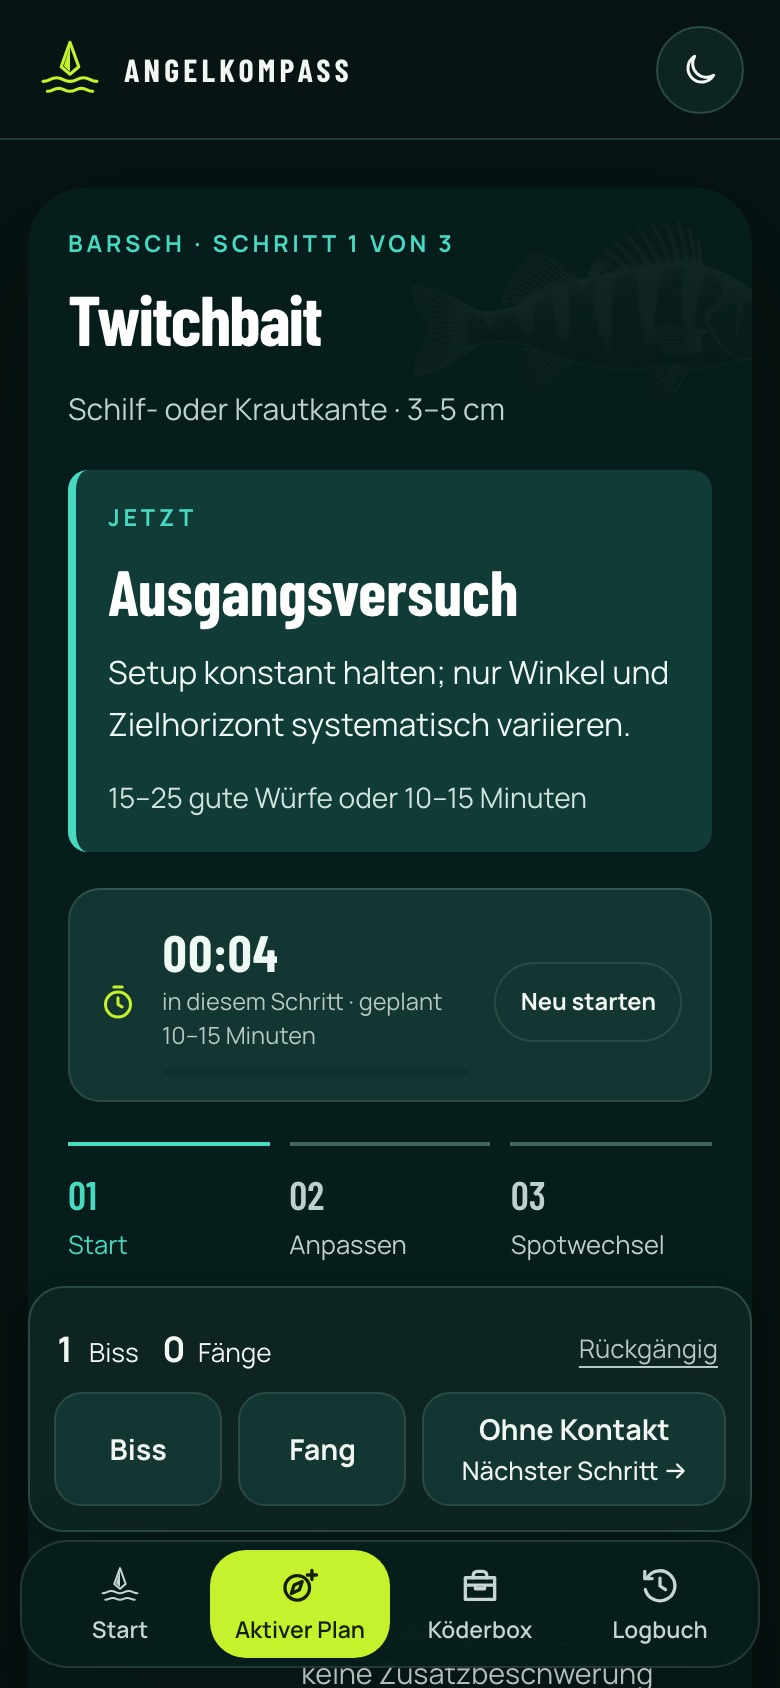
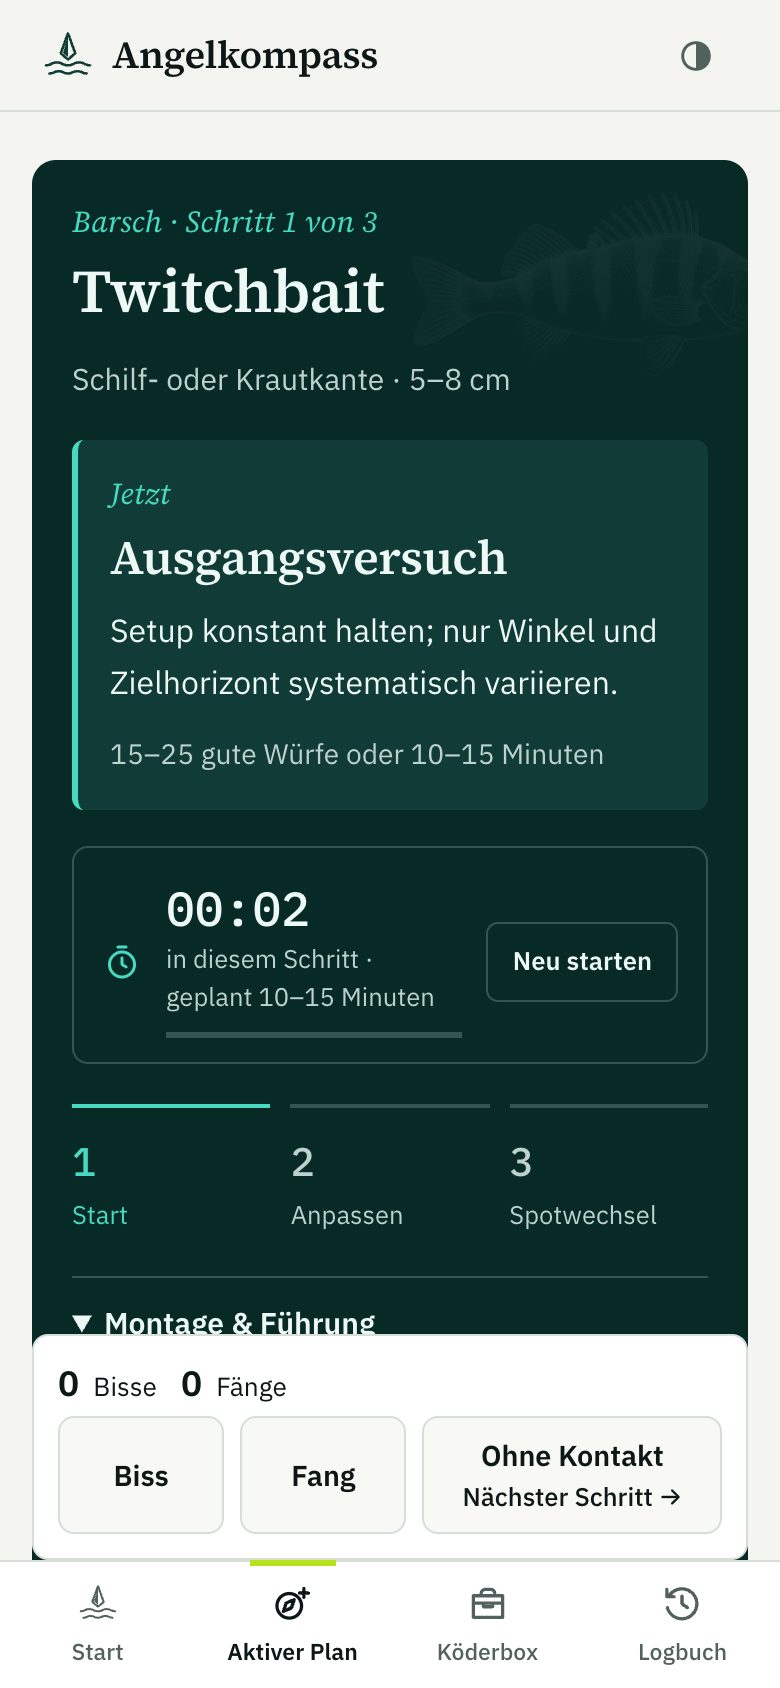
chore: new install screenshots and unpadded step numbers

diff --git a/src/features/sessions/SessionPage.tsx b/src/features/sessions/SessionPage.tsx
@@ -174,7 +174,7 @@ function SessionDetails({ session }: { session: FishingSession }) {
               aria-current={active && index === currentIndex ? 'step' : undefined}
               key={step.phase}
             >
-              <span className="step">0{index + 1}</span>
+              <span className="step">{index + 1}</span>
               <div>
                 <h3>{step.title}</h3>
                 <p>{step.change}</p>

diff --git a/src/features/recommendations/CompactRecommendation.tsx b/src/features/recommendations/CompactRecommendation.tsx
@@ -90,7 +90,7 @@ export function CompactRecommendation({
             className={!completed && step.phase === progress ? 'current' : ''}
             aria-current={!completed && step.phase === progress ? 'step' : undefined}
           >
-            <span>0{index + 1}</span>
+            <span>{index + 1}</span>
             {phaseLabels[step.phase]}
           </li>
         ))}

diff --git a/docs/design/redesign-2026-10-03.md b/docs/design/redesign-2026-10-03.md
@@ -34,7 +34,8 @@ Alle übrigen Farbwerte entsprechen dem bisherigen Stand.
 
 - Startseite: Hero als randloses Foto mit Überschrift, darunter Einleitung, aktive Session mit Hauptaktion, Fischliste, Köderbox und Logbuch als Indexzeilen.
 - Kicker, Statusbezeichnungen und Kartenlabels in normaler Schreibweise statt Versalien. Überschriften ohne Schlusspunkt.
-- Logbuch-Zahlen ohne führende Nullen.
+- Logbuch-Zahlen und Schrittnummern (Am-Wasser-Karte, Sessionseite) ohne führende Nullen.
+- Installations-Screenshots (`public/screenshots/`, 780 × 1688) neu aufgenommen: Start mit aktivem Plan, Angelplan, Am-Wasser-Karte. Erzeugt mit einem eigenen Headless-Chrome-Profil und Wegwerfdaten.
 - Segmentfelder brechen lange Beschriftungen nach einem Schrägstrich um (`<wbr>`). Der zugängliche Name bleibt per `aria-label` unverändert.
 - Schriften Barlow Condensed und Manrope ersetzt. App-Icon, Manifest- und Theme-Farben unverändert.
 
@@ -42,5 +43,4 @@ Keine Änderung an Fachregeln, Ranking, Datenformaten oder gespeicherten Snapsho
 
 ## Offen
 
-- Die Installations-Screenshots unter `public/screenshots/` zeigen noch das vorherige Design.
 - Abnahme auf echten Geräten, besonders die Lesbarkeit der Hero-Überschrift bei verschiedenen Bildausschnitten.
